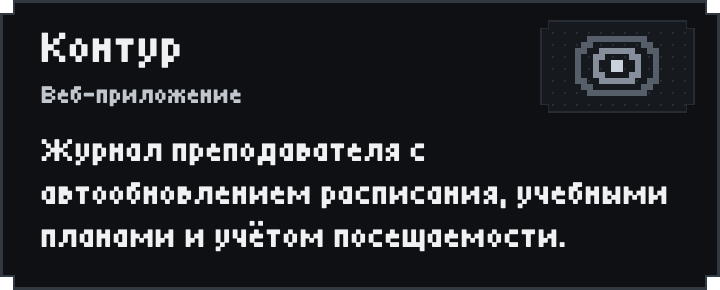
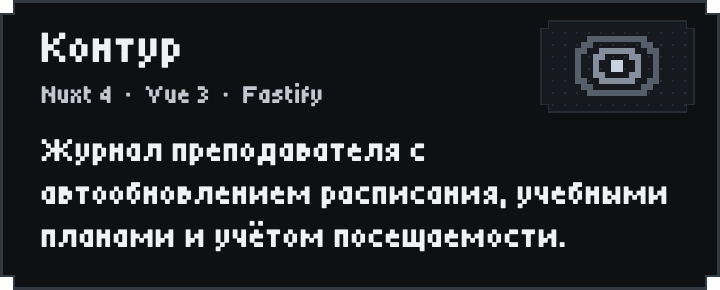
Add responsive pixel cards for private projects

Changed region(s): [[0.0611, 0.2793, 0.4583, 0.3724]]

diff --git a/README.md b/README.md
@@ -85,7 +85,7 @@
 <p>
 <picture>
   <source media="(max-width: 960px)" srcset="assets/profile/private-projects/kontur-mobile.png">
-  <img src="assets/profile/private-projects/kontur.png" alt="Контур — Веб-приложение. Журнал преподавателя с автообновлением расписания, учебными планами и учётом посещаемости.">
+  <img src="assets/profile/private-projects/kontur.png" alt="Контур — Nuxt 4, Vue 3, Fastify. Журнал преподавателя с автообновлением расписания, учебными планами и учётом посещаемости.">
 </picture>
 </p>
 
